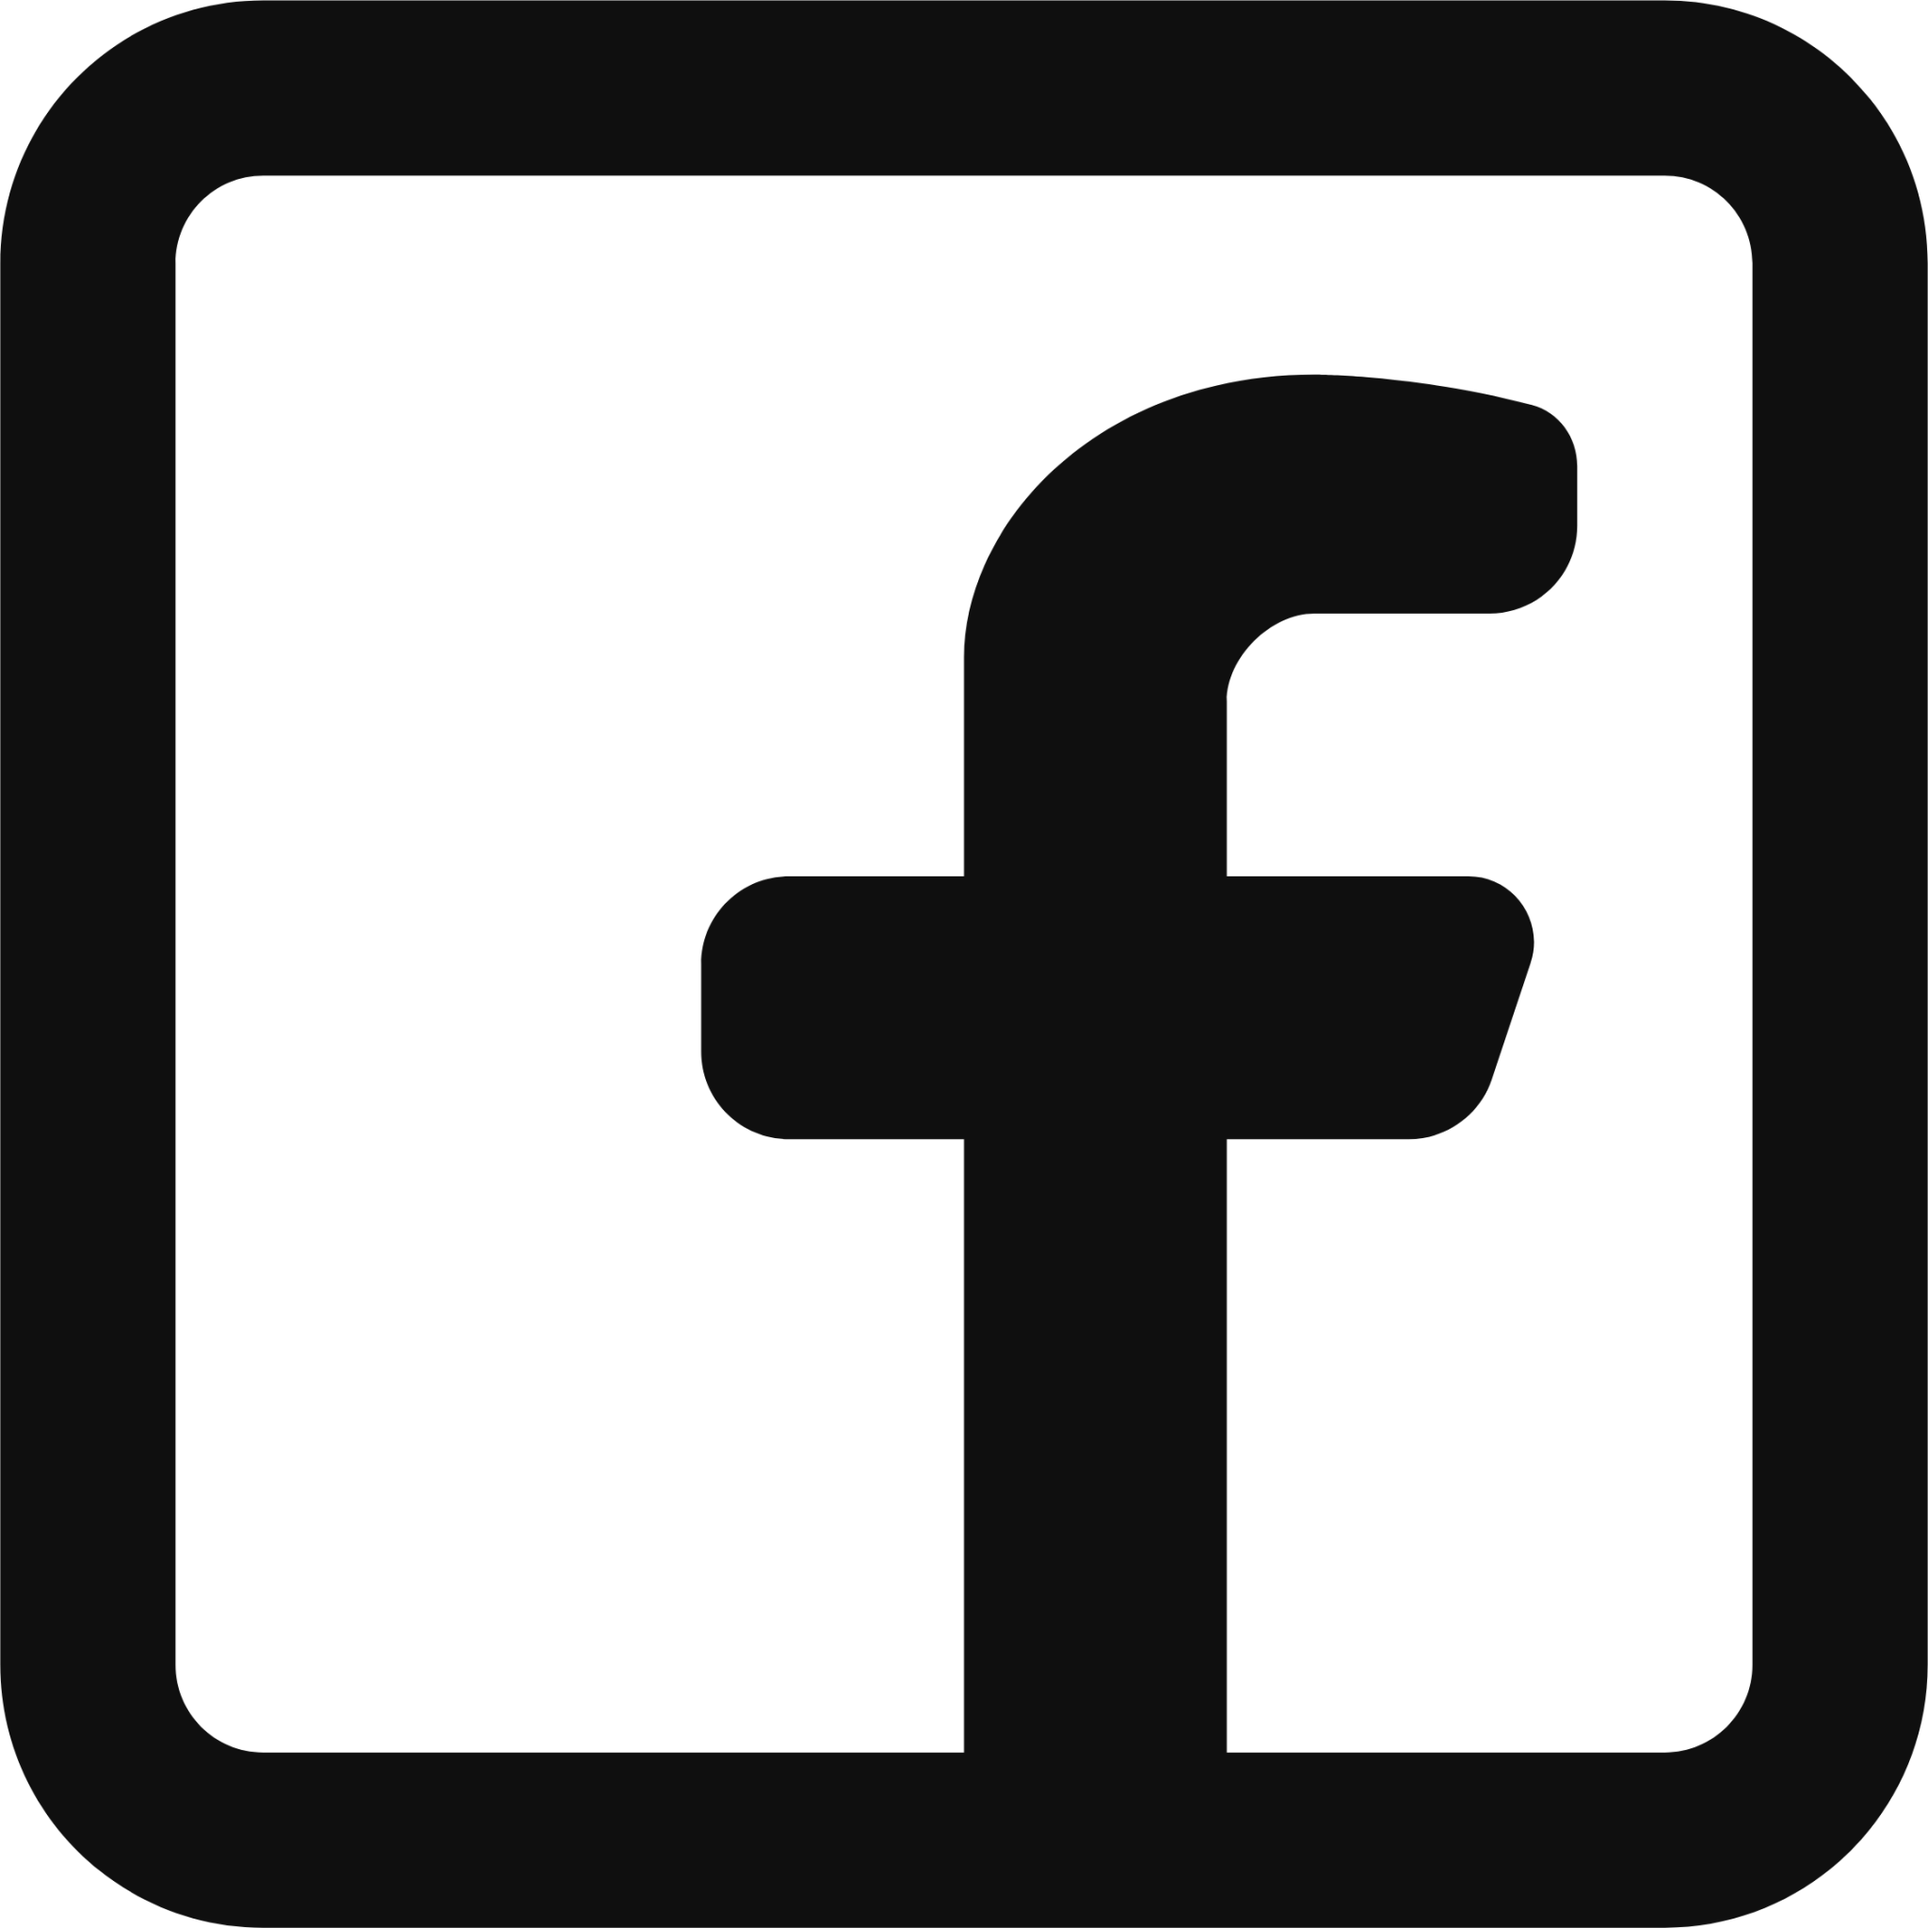
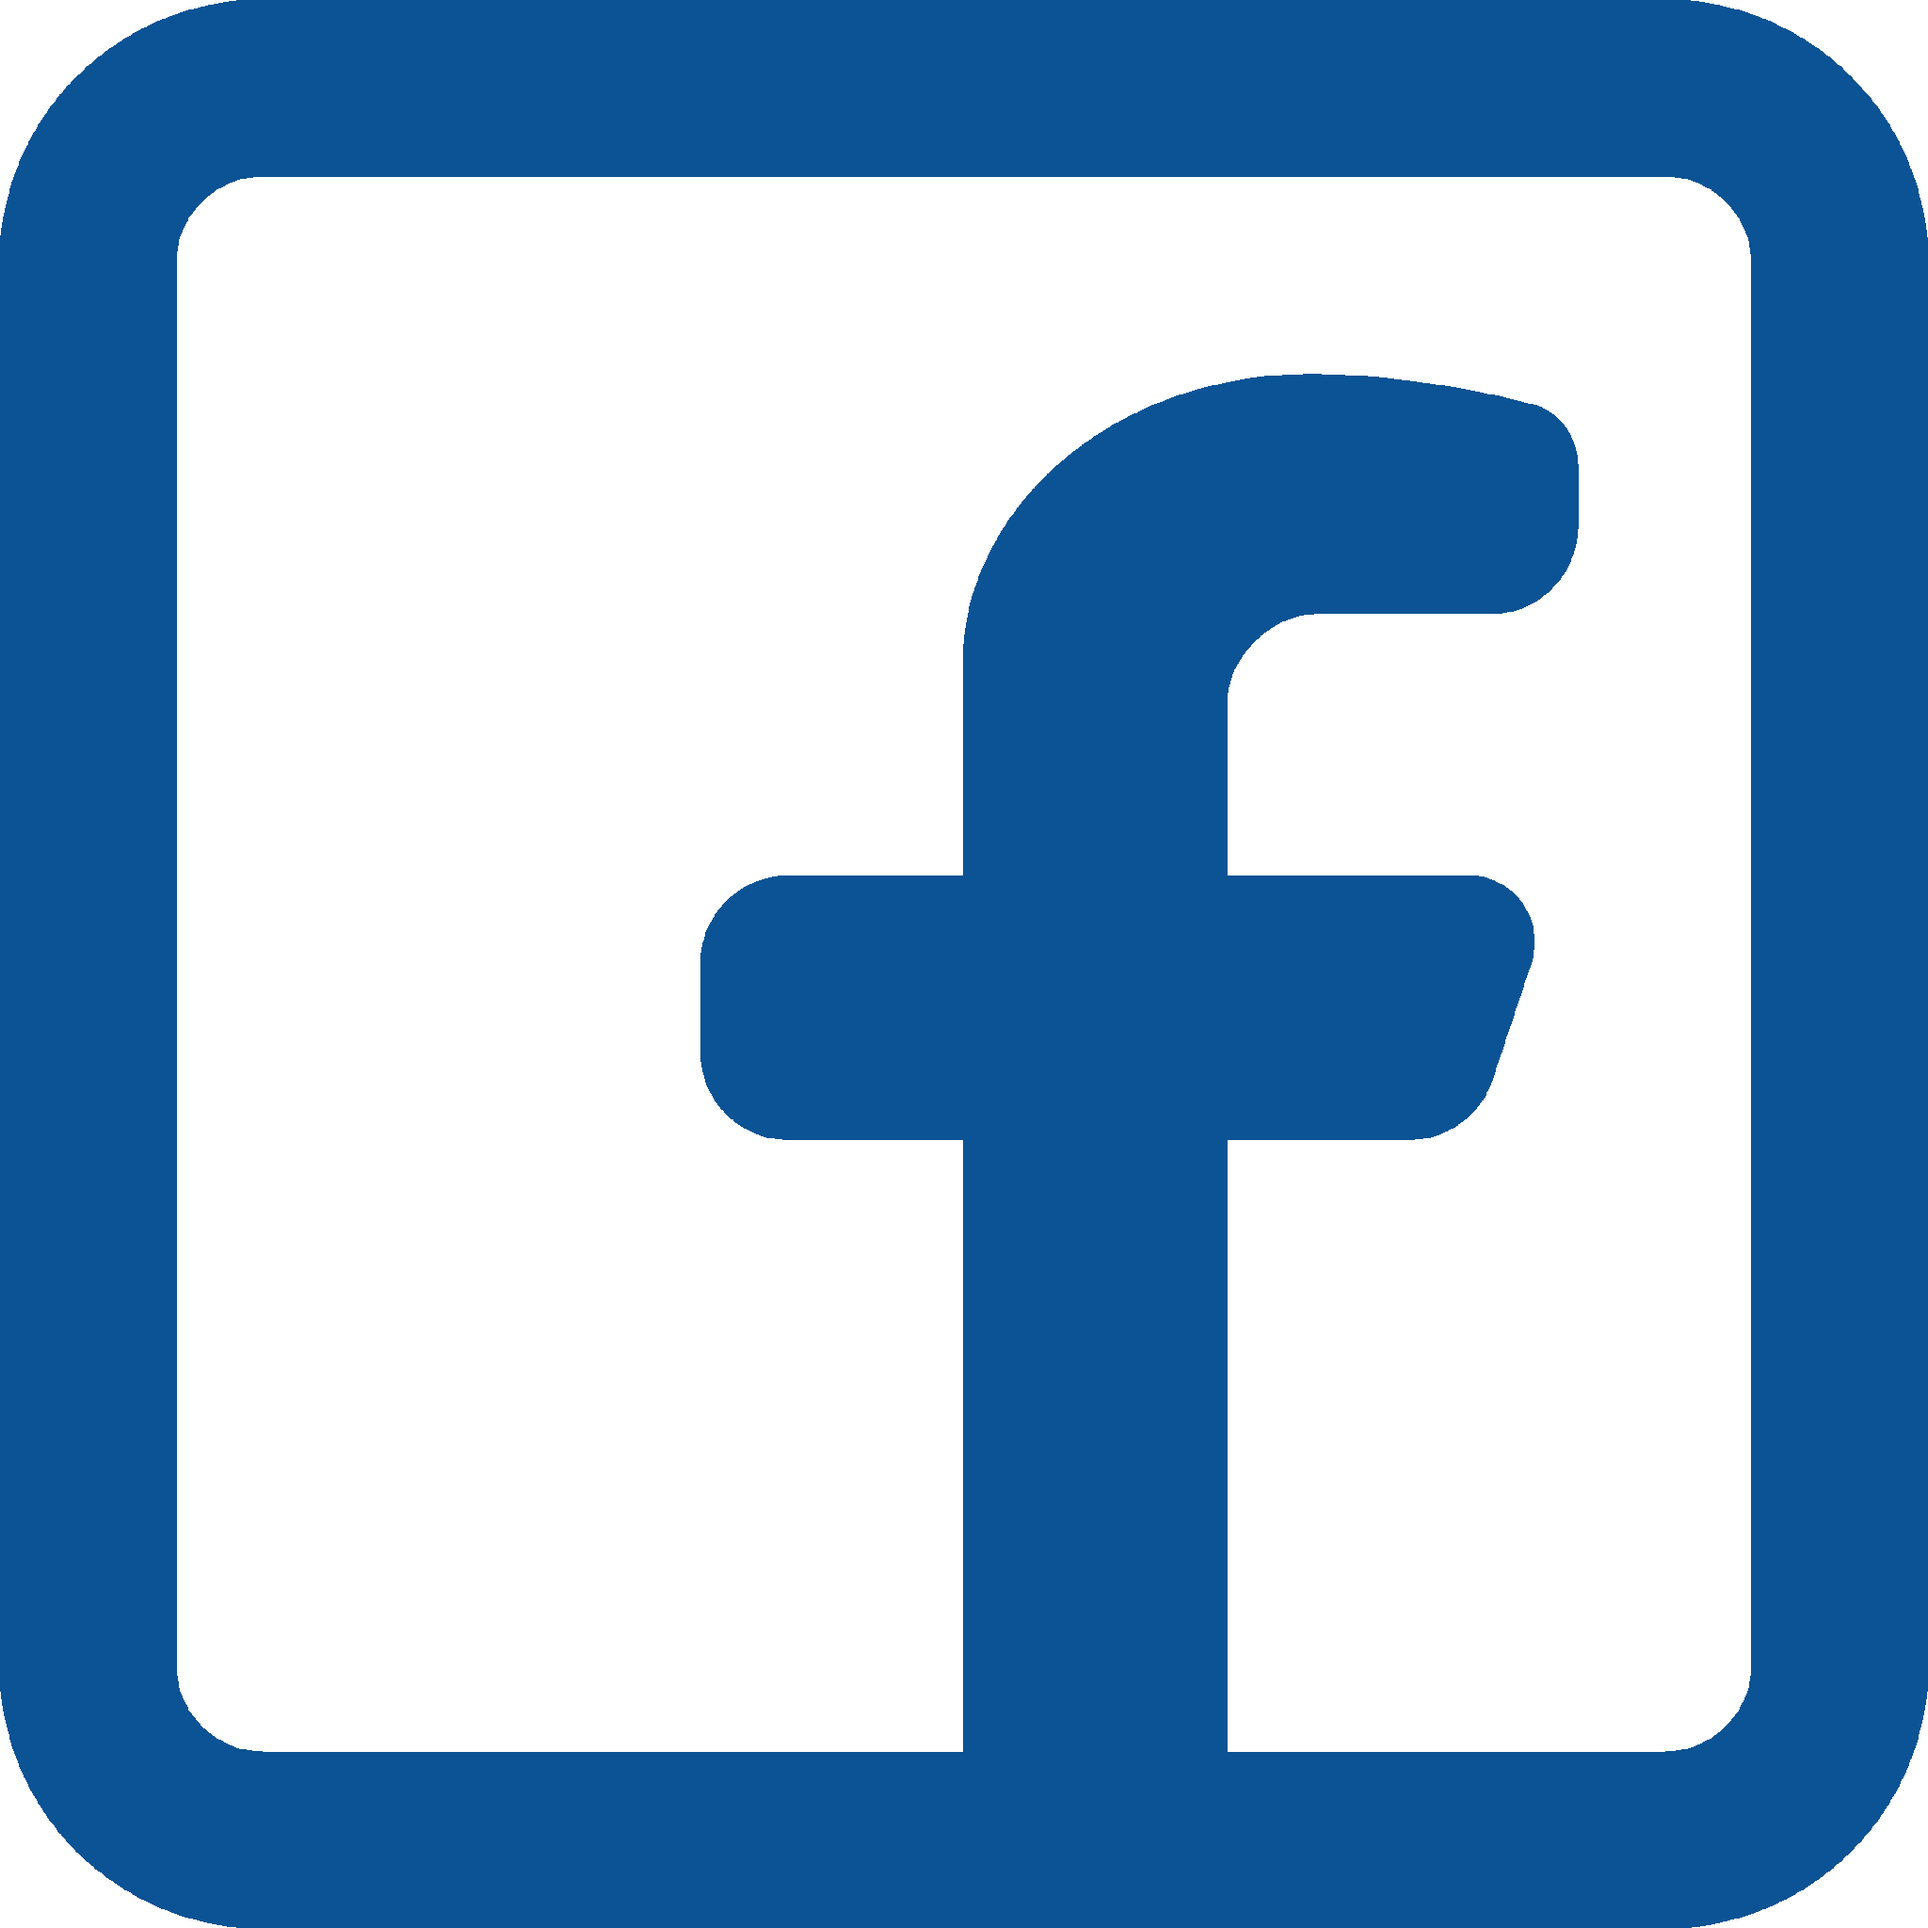
Add files via upload

diff --git a/diensten.html b/diensten.html
@@ -18,15 +18,18 @@
 					<br><br>
 
 					<br class="only-mobile"><br class="only-mobile"><br class="only-mobile">
-                        <h3>Welkom bij Verhoeven Engineering!</h3>
+                        <h3>Diensten</h3>
                          
                         <p>
-                            Op dit moment levert Verhoeven Engineering enkel nog de dienst; <u><a href='diensten.html'>technische (solidworks) tekeningen.</u></a><br>
-                            Dit zal gauw worden uitgebreid<br class="only-mobile"> tot diverse services. <br>
-                           	Stuur gerust een mailtje bij interesse.<br><br>
-                           <br>
+                            Technisch tekenen<br>
+                            De enige dienst die we op dit moment leveren is technisch tekenen. Dit word gedaan d.m.v. Solidworks.<br>
+                            SolidWorks is een krachtige 3D CAD (Computer-Aided Design) software die wij gebruiken voor het ontwerpen, <br> 
+                            simuleren en documenteren van producten. Het biedt uitgebreide tools voor mechanisch ontwerp, engineering <br> 
+                            en productontwikkeling, waardoor we efficiënt en nauwkeurig kunnen werken. 
+                           
+                           
                             
-                            verhoevenengineering@gmail.com<br>
+                  
                             <br>
                     	
 
@@ -43,7 +46,6 @@
                     </div>
      </div>
 
-<img src="klimrobot2.png" class="klimrobot"><img>
      
 	<!-- pc versie -->
     <div id="topTable">

diff --git a/over.html b/over.html
@@ -18,15 +18,16 @@
 					<br><br>
 
 					<br class="only-mobile"><br class="only-mobile"><br class="only-mobile">
-                        <h3>Welkom bij Verhoeven Engineering!</h3>
-                         
+                        <h3>Jaap Verhoeven</h3>
                         <p>
-                            Op dit moment levert Verhoeven Engineering enkel nog de dienst; <u><a href='diensten.html'>technische (solidworks) tekeningen.</u></a><br>
-                            Dit zal gauw worden uitgebreid<br class="only-mobile"> tot diverse services. <br>
-                           	Stuur gerust een mailtje bij interesse.<br><br>
-                           <br>
+                        Jaap Verhoeven, tweedejaars student mechatronica aan Avans Hogeschool in Breda. <br>
+                        Deze website is gebouwd uit eigen interesse voor de opzet ervan.<br>
+                        Op dit moment dient het als verwijspagina voor ZZP opdrachten e.d.
+
+                           
+                           
                             
-                            verhoevenengineering@gmail.com<br>
+
                             <br>
                     	
 
@@ -43,7 +44,7 @@
                     </div>
      </div>
 
-<img src="klimrobot2.png" class="klimrobot"><img>
+
      
 	<!-- pc versie -->
     <div id="topTable">

diff --git a/projecten.html b/projecten.html
@@ -18,15 +18,16 @@
 					<br><br>
 
 					<br class="only-mobile"><br class="only-mobile"><br class="only-mobile">
-                        <h3>Welkom bij Verhoeven Engineering!</h3>
+                        <h3>Projecten</h3>
                          
                         <p>
-                            Op dit moment levert Verhoeven Engineering enkel nog de dienst; <u><a href='diensten.html'>technische (solidworks) tekeningen.</u></a><br>
-                            Dit zal gauw worden uitgebreid<br class="only-mobile"> tot diverse services. <br>
-                           	Stuur gerust een mailtje bij interesse.<br><br>
-                           <br>
+                            Nog niets! Wees de eerste!<br>
+                            Verhoeven Engineering heeft nog geen officiële commerciële klussen aangenomen.<br>
+                            Sterker nog, het is niet eens ingeschreven bij de KVK.
+                           
+                           
                             
-                            verhoevenengineering@gmail.com<br>
+
                             <br>
                     	
 
@@ -43,7 +44,7 @@
                     </div>
      </div>
 
-<img src="klimrobot2.png" class="klimrobot"><img>
+
      
 	<!-- pc versie -->
     <div id="topTable">

diff --git a/styles.css b/styles.css
@@ -12,7 +12,7 @@ body, html {
 
 #content {
     position: absolute;
-    top: 50%;
+    top: 55%;
     left: 50%;
     transform: translate(-50%, -50%);
     text-align: left;
@@ -102,9 +102,10 @@ a {
 }
 
 
-.logo   {
+.logo {
     width: 50vh; /* Set the width of the specific image */
     height: auto; /* Maintain aspect ratio */
+    margin-top: -18vh;
 }
 
 .logoBottom   {
@@ -135,16 +136,25 @@ a {
         display: none;
     }
     .logo {
-        margin-top: 120px;
-        margin-bottom: -50px;
-        
+        position: fixed;
+        margin-top: -80px;
+        margin-bottom: 0px;
+        margin-left: -20px;
+        }
+    .only-pc {
+        display: none;
     }
 } 
+
+
 
 @media (min-width: 768px) {
     #navBarMobile {
         display: none;
-    }
+    } .only-mobile
+     {
+        display: none;
+     }
 } 
 
 @font-face {
@@ -173,14 +183,17 @@ a {
 }
 
 .menuItem:hover {
-    background-color: #3c3aa9;
+    background-color: #0b5394;
     cursor: pointer;
      /* Change the background color on hover */
 }
 
+.blue {
+    color: #0b5394;
+}
 
 a:hover {
-    color: #00008B; /* Change the color on hover */
+    color: #0b5394; /* Change the color on hover */
 }
 
 .klimrobot {
